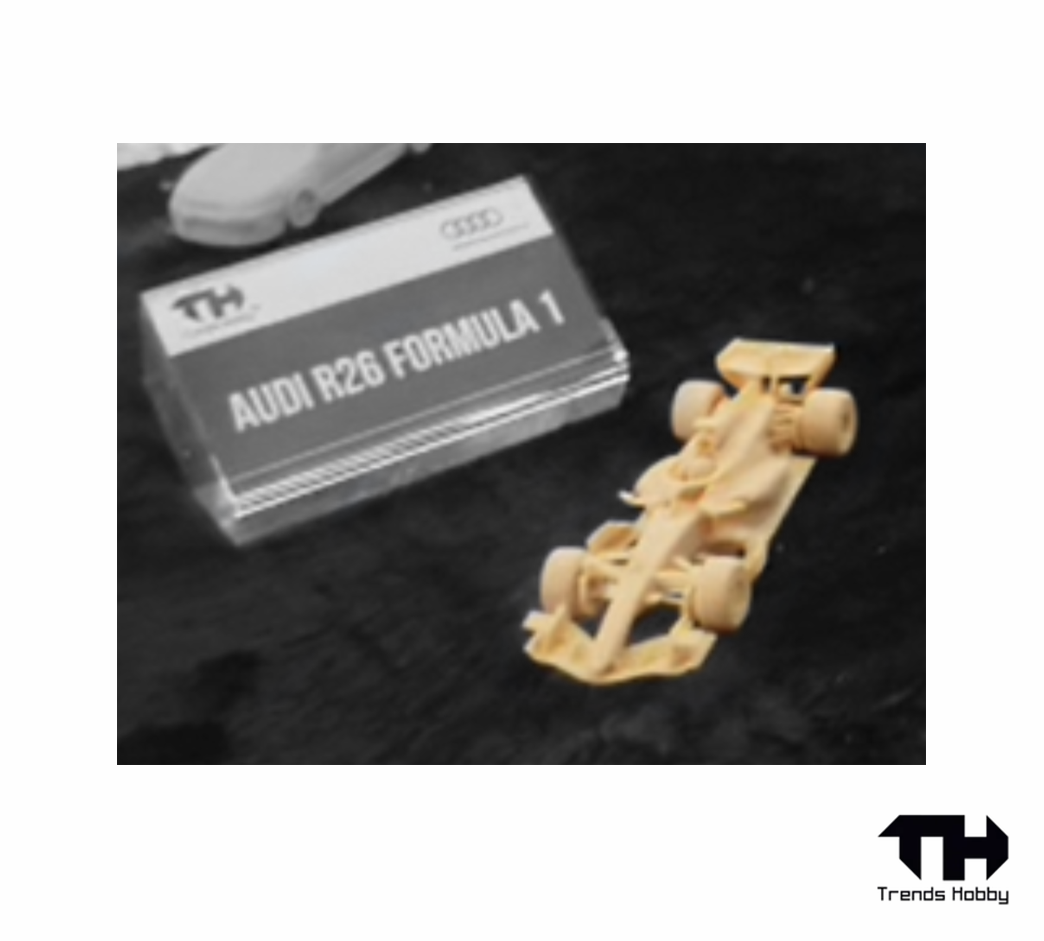
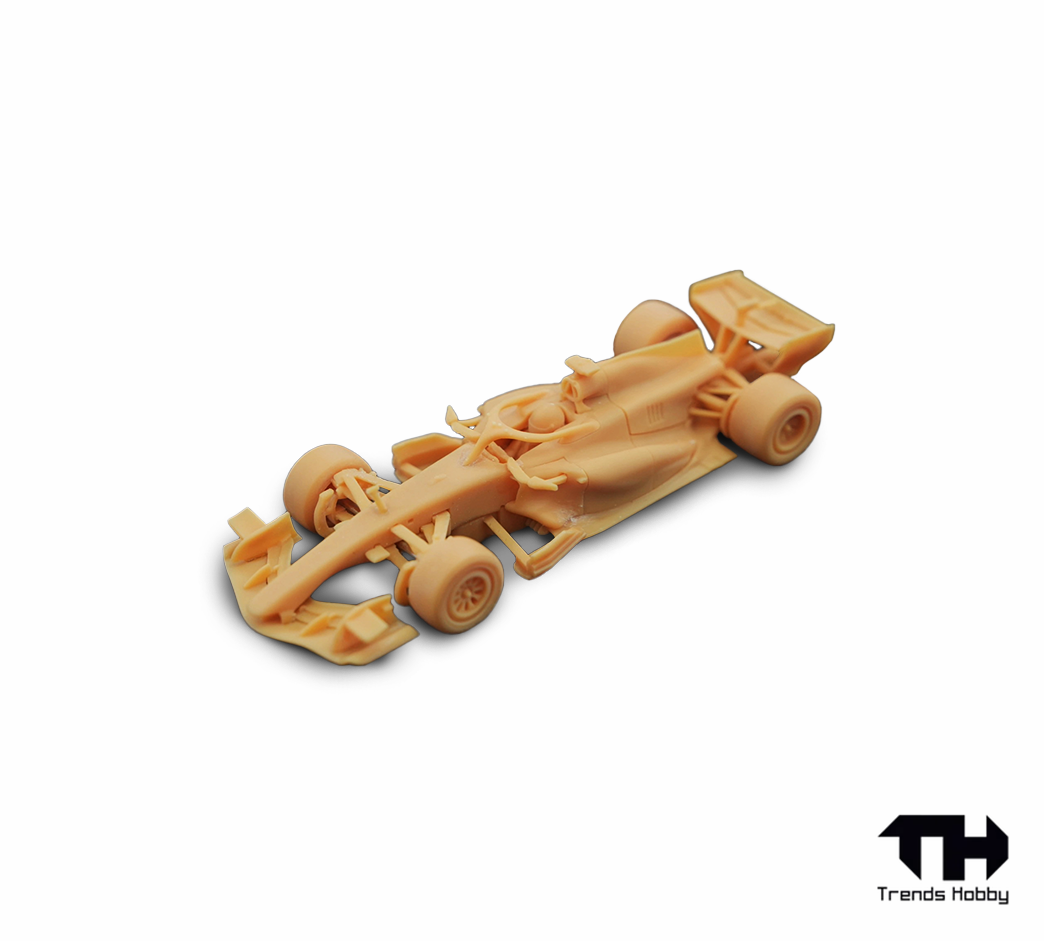
Update new tooling photos and models

diff --git a/index.html b/index.html
@@ -709,7 +709,7 @@ Quantity: 6000`;
     });
     return {models:models.sort((a,b)=>a.number-b.number),sets};
   }
-  const newToolings=[{"id":"tooling-audi-r8-lms-g3-evo-ii","newTooling":true,"status":"newtooling","name":"Audi R8 LMS GT3 EVO II","brand":"Audi","event":"Hong Kong ToyCar Salon 2026","eventDate":"August 2026","photo":"New Tooling/Audi-R8-LMS-G3-EVO-II.png"},{"id":"tooling-audi-rs6-avant","newTooling":true,"status":"newtooling","name":"Audi RS6 Avant","brand":"Audi","event":"Hong Kong ToyCar Salon 2026","eventDate":"August 2026","photo":"New Tooling/Audi-RS6-Avant.png"},{"id":"tooling-chevrolet-corvette-z06-gt3-r","newTooling":true,"status":"newtooling","name":"Chevrolet Corvette Z06 GT3 R","brand":"Chevrolet","event":"Hong Kong ToyCar Salon 2026","eventDate":"August 2026","photo":"New Tooling/Chevrolet-Corvette-Z06-GT3-R.png"},{"id":"tooling-ford-mustang-gt3","newTooling":true,"status":"newtooling","name":"Ford Mustang GT3","brand":"Ford","event":"Hong Kong ToyCar Salon 2026","eventDate":"August 2026","photo":"New Tooling/Ford-Mustang-GT3.png"},{"id":"tooling-lamborghini-countach-lp400","newTooling":true,"status":"newtooling","name":"Lamborghini Countach LP400","brand":"Lamborghini","event":"Hong Kong ToyCar Salon 2026","eventDate":"August 2026","photo":"New Tooling/Lamborghini-Countach-LP400.png"},{"id":"tooling-lamborghini-miura-p400","newTooling":true,"status":"newtooling","name":"Lamborghini Miura P400","brand":"Lamborghini","event":"Hong Kong ToyCar Salon 2026","eventDate":"August 2026","photo":"New Tooling/Lamborghini-Miura-P400.png"},{"id":"tooling-mclaren-720s-gt3-evo","newTooling":true,"status":"newtooling","name":"McLaren 720S GT3 EVO","brand":"McLaren","event":"Hong Kong ToyCar Salon 2026","eventDate":"August 2026","photo":"New Tooling/McLaren-720S-GT3-EVO.png"},{"id":"tooling-nissan-gtr-r32","newTooling":true,"status":"newtooling","name":"Nissan GT-R R32","brand":"Nissan","event":"Hong Kong ToyCar Salon 2026","eventDate":"August 2026","photo":"New Tooling/Nissan-GTR-R32.png"},{"id":"tooling-nissan-gtr-r35-nismo","newTooling":true,"status":"newtooling","name":"Nissan GT-R R35 Nismo","brand":"Nissan","event":"Hong Kong ToyCar Salon 2026","eventDate":"August 2026","photo":"New Tooling/Nissan-GTR-R35-Nismo.png"},{"id":"tooling-porsche-911-gt3-r-evo","newTooling":true,"status":"newtooling","name":"Porsche 911 GT3 R EVO","brand":"Porsche","event":"Hong Kong ToyCar Salon 2026","eventDate":"August 2026","photo":"New Tooling/Porsche-911-GT3-R-EVO.png"},{"id":"tooling-porsche-917k","newTooling":true,"status":"newtooling","name":"Porsche 917K","brand":"Porsche","event":"Hong Kong ToyCar Salon 2026","eventDate":"August 2026","photo":"New Tooling/Porsche-917K.png"},{"id":"tooling-porsche-956","newTooling":true,"status":"newtooling","name":"Porsche 956","brand":"Porsche","event":"Hong Kong ToyCar Salon 2026","eventDate":"August 2026","photo":"New Tooling/Porsche-956.png"},{"id":"tooling-toyota-gr86","newTooling":true,"status":"newtooling","name":"Toyota GR86","brand":"Toyota","event":"Hong Kong ToyCar Salon 2026","eventDate":"August 2026","photo":"New Tooling/Toyota-GR86.png"},{"name":"Audi R26 Formula 1","newTooling":true,"photo":"New Tooling/Audi-R26-Formula-1.png","status":"newtooling","brand":"Audi","id":"tooling-audi-r26-formula-1"},{"name":"Lamborghini Temerario GT3","newTooling":true,"photo":"New Tooling/Lamborghini-Temerario-GT3.png","status":"newtooling","brand":"Lamborghini","id":"tooling-lamborghini-temerario-gt3"}];
+  const newToolings=[{"name":"Audi R26 Formula 1","newTooling":true,"photo":"New Tooling/Audi-R26-Formula-1.png","status":"newtooling","brand":"Audi","id":"tooling-audi-r26-formula-1"},{"id":"tooling-audi-r8-lms-g3-evo-ii","newTooling":true,"status":"newtooling","name":"Audi R8 LMS GT3 EVO II","brand":"Audi","event":"Hong Kong ToyCar Salon 2026","eventDate":"August 2026","photo":"New Tooling/Audi-R8-LMS-G3-EVO-II.png"},{"id":"tooling-audi-rs6-avant","newTooling":true,"status":"newtooling","name":"Audi RS6 Avant","brand":"Audi","event":"Hong Kong ToyCar Salon 2026","eventDate":"August 2026","photo":"New Tooling/Audi-RS6-Avant.png"},{"id":"tooling-chevrolet-corvette-z06-gt3-r","newTooling":true,"status":"newtooling","name":"Chevrolet Corvette Z06 GT3 R","brand":"Chevrolet","event":"Hong Kong ToyCar Salon 2026","eventDate":"August 2026","photo":"New Tooling/Chevrolet-Corvette-Z06-GT3-R.png"},{"id":"tooling-ford-mustang-gt3","newTooling":true,"status":"newtooling","name":"Ford Mustang GT3","brand":"Ford","event":"Hong Kong ToyCar Salon 2026","eventDate":"August 2026","photo":"New Tooling/Ford-Mustang-GT3.png"},{"id":"tooling-lamborghini-countach-lp400","newTooling":true,"status":"newtooling","name":"Lamborghini Countach LP400","brand":"Lamborghini","event":"Hong Kong ToyCar Salon 2026","eventDate":"August 2026","photo":"New Tooling/Lamborghini-Countach-LP400.png"},{"id":"tooling-lamborghini-miura-p400","newTooling":true,"status":"newtooling","name":"Lamborghini Miura P400","brand":"Lamborghini","event":"Hong Kong ToyCar Salon 2026","eventDate":"August 2026","photo":"New Tooling/Lamborghini-Miura-P400.png"},{"name":"Lamborghini Temerario GT3","newTooling":true,"photo":"New Tooling/Lamborghini-Temerario-GT3.png","status":"newtooling","brand":"Lamborghini","id":"tooling-lamborghini-temerario-gt3"},{"id":"tooling-mclaren-720s-gt3-evo","newTooling":true,"status":"newtooling","name":"McLaren 720S GT3 EVO","brand":"McLaren","event":"Hong Kong ToyCar Salon 2026","eventDate":"August 2026","photo":"New Tooling/McLaren-720S-GT3-EVO.png"},{"id":"tooling-mclaren-f1-gtr","photo":"New Tooling/McLaren-F1-GTR.png","brand":"McLaren","name":"McLaren F1 GTR","status":"newtooling","newTooling":true},{"id":"tooling-nissan-gtr-r32","newTooling":true,"status":"newtooling","name":"Nissan GT-R R32","brand":"Nissan","event":"Hong Kong ToyCar Salon 2026","eventDate":"August 2026","photo":"New Tooling/Nissan-GTR-R32.png"},{"id":"tooling-nissan-gt-r-r33-400r","photo":"New Tooling/Nissan-GT-R-R33-400R.png","brand":"Nissan","name":"Nissan GT-R R33 400R","status":"newtooling","newTooling":true},{"id":"tooling-nissan-gtr-r35-nismo","newTooling":true,"status":"newtooling","name":"Nissan GT-R R35 Nismo","brand":"Nissan","event":"Hong Kong ToyCar Salon 2026","eventDate":"August 2026","photo":"New Tooling/Nissan-GTR-R35-Nismo.png"},{"id":"tooling-porsche-911-gt3-r-evo","newTooling":true,"status":"newtooling","name":"Porsche 911 GT3 R EVO","brand":"Porsche","event":"Hong Kong ToyCar Salon 2026","eventDate":"August 2026","photo":"New Tooling/Porsche-911-GT3-R-EVO.png"},{"id":"tooling-porsche-917k","newTooling":true,"status":"newtooling","name":"Porsche 917K","brand":"Porsche","event":"Hong Kong ToyCar Salon 2026","eventDate":"August 2026","photo":"New Tooling/Porsche-917K.png"},{"id":"tooling-porsche-956","newTooling":true,"status":"newtooling","name":"Porsche 956","brand":"Porsche","event":"Hong Kong ToyCar Salon 2026","eventDate":"August 2026","photo":"New Tooling/Porsche-956.png"},{"id":"tooling-toyota-gr86","newTooling":true,"status":"newtooling","name":"Toyota GR86","brand":"Toyota","event":"Hong Kong ToyCar Salon 2026","eventDate":"August 2026","photo":"New Tooling/Toyota-GR86.png"},{"id":"tooling-xpeng-p7","photo":"New Tooling/XPeng-P7.png","brand":"XPeng","name":"XPeng P7","status":"newtooling","newTooling":true}];
   const titleUpdates={"119": ["Porsche 911 GT3 R", "Manthey 1st Phorm LeMans 24H LMGT3 Winner 2025 #92"], "124": ["Lamborghini Huracan GT3 EVO2", "Absolute Racing China GT 2026 #63"], "113": ["Porsche 918 Spyder", "Acid Green"], "114": ["Porsche 918 Spyder", "Black"], "88": ["Toyota Land Cruiser 250", "Trail Dust Sand"], "89": ["Toyota Land Cruiser 250", "Heritage Blue"], "95": ["Porsche 911 GT1", "Mobil 1 Le Mans 1998 #26"], "90": ["Porsche 911 GT1", "Porsche AG 1998 Test Car"], "91": ["Porsche 911 GT3 R", "Presentation Car"], "92": ["Porsche 911 GT3 R", "Manthey Racing DTM 2024 #90"], "93": ["Porsche 911 GT3 R", "Manthey Racing DTM 2024 #91"], "94": ["Porsche Cayenne Turbo GT", "Algarve Blue Metallic"], "96": ["McLaren Senna GTR", "Polaris Blue #33"], "97": ["McLaren Senna GTR", "Iridescent Chameleon Purple"], "98": ["Porsche Cayenne Turbo GT", "Arctic Grey"], "99": ["Porsche Cayenne Turbo GT", "Shark Blue"], "101": ["Porsche Cayenne Turbo GT", "Lava Orange"], "102": ["Porsche Cayenne Turbo GT", "Quartzite Grey Metallic"], "103": ["Porsche Cayenne Turbo GT", "Viper Green"], "104": ["Porsche Taycan Turbo GT", "Purple Sky Metallic"], "105": ["Porsche Taycan Turbo GT", "Pale Blue Metallic"], "106": ["Porsche Taycan Turbo GT", "Oak Green Metallic"], "107": ["Lamborghini Huracan GT3 EVO2", "SSR Performance DTM 2023 #92"], "108": ["Lamborghini Huracan GT3 EVO2", "SSR Performance DTM 2023 #94"], "109": ["Lamborghini Huracan GT3 EVO2", "SSR Performance DTM 2023 #6"], "110": ["Porsche 911 GT3 R", "Manthey Racing DTM 2025 #92"], "111": ["Porsche 911 GT3 R", "Manthey Racing DTM 2025 #90"], "112": ["Porsche 911 GT3 R", "Manthey Racing DTM 2025 #91"], "115": ["Porsche 918 Spyder", "Salzburg Racing #05 Matte Black / White"], "116": ["Porsche 918 Spyder", "Salzburg Racing #25 White / Gloss Black"], "142": ["Porsche 918 Spyder", "Salzburg Racing #25 Matte Black / Guards Red"], "117": ["Porsche 911 GT3 R", "Absolute Racing Bathurst 12 Hour 2026 #911"], "118": ["McLaren Senna GTR", "Coke"], "120": ["Porsche 911 GT3 R", "Chip Hart Racing LeMans 24H LMGT3 2025 #90"], "121": ["Lamborghini Temerario", "Basquiat Chrome Gold"], "122": ["Lamborghini Temerario", "Basquiat Chrome Gunmetal"], "123": ["Porsche 911 GT3 R", "Iron Dames LeMans 24H LMGT3 2025 #85"], "125": ["Lamborghini Temerario", "Blu Marinus Matt"], "126": ["Lamborghini Temerario", "Verde Mercurius"], "127": ["Lamborghini Huracan GT3 EVO2", "GRT DTM 2025 #19"], "128": ["Lamborghini Huracan GT3 EVO2", "GRT DTM 2025 #63"], "129": ["Porsche 911 GT3 R", "EMA Motorsport LeMans 24H LMGT3 Winner 2024 #91"], "132": ["Lamborghini Temerario", "Keith Haring"], "138": ["Lamborghini Huracan GT3 EVO2", "GRT DTM 2024 #19"], "140": ["Lamborghini Urus Performante", "Basquiat Matte White"], "141": ["Lamborghini Urus Performante", "Basquiat Matte Black"], "143": ["Lamborghini Huracan GT3 EVO2", "Absolute Racing GTWCA Malaysia 2026 #29"], "144": ["Porsche 911 GT1 1998", "Arctic Silver Metallic"], "145": ["Porsche 911 GT1 1998", "Guards Red"], "146": ["Lamborghini Temerario", "Tokidoki #26"], "147": ["Lamborghini Urus Performante", "Tokidoki #20"], "149": ["Lamborghini Huracan GT3 EVO2", "Absolute Racing China GT 2026 #63"], "159": ["Lamborghini Huracan GT3 EVO2", "GRT DTM 2023 #19"], "160": ["Lamborghini Huracan GT3 EVO2", "Absolute Racing GTWCA Indonesia 2026 #29"], "163": ["Bugatti Tourbillon", "Atlantic Blue"], "164": ["Bugatti Tourbillon", "Dove Beige Metallic / Black"], "130": ["Porsche 911 GT3 R", "Pure Rxcing LeMans 24H LMGT3 2024 #92"], "80": ["McLaren Senna GTR", "Burton Blue #12"], "81": ["McLaren Senna GTR", "Electroplating Red #36"], "86": ["McLaren Senna GTR", "Vermillion Red"], "87": ["McLaren Senna GTR", "Papaya Spark #12"], "79": ["Toyota Land Cruiser 250", "Red"]};
   const prototypes=[{"id":"prototype-chevrolet-corvette-z06-gt3-r-jmr-suzuka-1000km-2026-99","prototype":true,"status":"prototype","name":"Chevrolet Corvette Z06 GT3 R JMR Suzuka 1000KM 2026 #99","titleLines":["Chevrolet Corvette Z06 GT3 R","JMR Suzuka 1000KM 2026 #99"],"brand":"Chevrolet","photo":"Prototypes/Chevrolet-Corvette-Z06-GT3-R-JMR-Suzuka-1000KM-2026-#99.png","driver":"HH Prince Jefri Ibrahim, HH Prince Abu Bakar Ibrahim, Konsta Lappalainen"},{"id":"prototype-mclaren-senna-gtr-cerulean-blue","prototype":true,"status":"prototype","name":"McLaren Senna GTR Cerulean Blue","titleLines":["McLaren Senna GTR","Cerulean Blue"],"brand":"McLaren","photo":"Prototypes/McLaren-Senna-GTR-Cerulean-Blue.png"},{"id":"prototype-mclaren-senna-gtr-electroplating-orange-12","prototype":true,"status":"prototype","name":"McLaren Senna GTR Electroplating Orange #12","titleLines":["McLaren Senna GTR","Electroplating Orange #12"],"brand":"McLaren","photo":"Prototypes/McLaren-Senna-GTR-Electroplating-Orange-#12.png"},{"id":"prototype-mclaren-senna-gtr-onyx-black","prototype":true,"status":"prototype","name":"McLaren Senna GTR Onyx Black","titleLines":["McLaren Senna GTR","Onyx Black"],"brand":"McLaren","photo":"Prototypes/McLaren-Senna-GTR-Onyx-Black.png"},{"id":"prototype-mclaren-senna-gtr-silica-white","prototype":true,"status":"prototype","name":"McLaren Senna GTR Silica White","titleLines":["McLaren Senna GTR","Silica White"],"brand":"McLaren","photo":"Prototypes/McLaren-Senna-GTR-Silica-White.png"},{"id":"prototype-mclaren-senna-gtr-volcano-orange","prototype":true,"status":"prototype","name":"McLaren Senna GTR Volcano Orange","titleLines":["McLaren Senna GTR","Volcano Orange"],"brand":"McLaren","photo":"Prototypes/McLaren-Senna-GTR-Volcano-Orange.png"},{"id":"prototype-nissan-gtr-r34-z-tune-black","prototype":true,"status":"prototype","name":"Nissan GT-R R34 Z-Tune Black","titleLines":["Nissan GT-R R34 Z-Tune","Black"],"brand":"Nissan","photo":"Prototypes/Nissan-GTR-R34-Z-Tune-Black.png"},{"id":"prototype-nissan-gtr-r34-z-tune-silver","prototype":true,"status":"prototype","name":"Nissan GT-R R34 Z-Tune Silver","titleLines":["Nissan GT-R R34 Z-Tune","Silver"],"brand":"Nissan","photo":"Prototypes/Nissan-GTR-R34-Z-Tune-Silver.png"},{"id":"prototype-porsche-911-gt3-r-evo-hzo-fortis-racing-gtwca-japan-2026-20","prototype":true,"status":"prototype","name":"Porsche 911 GT3 R EVO HZO Fortis Racing GTWCA Japan 2026 #20","titleLines":["Porsche 911 GT3 R EVO","HZO Fortis Racing GTWCA Japan 2026 #20"],"brand":"Porsche","photo":"Prototypes/Porsche-911-GT3-R-EVO-HZO-Fortis-Racing-GTWCA-Japan-2026-#20.png","driver":"Aaron Lim Say Joon, Haziq Zairel Oh"},{"id":"prototype-porsche-911-gt3-r-evo-hzo-fortis-racing-2026-shanghai-8hrs-20","prototype":true,"status":"prototype","name":"Porsche 911 GT3 R EVO HZO Fortis Racing 2026 Shanghai 8Hrs #20","titleLines":["Porsche 911 GT3 R EVO","HZO Fortis Racing 2026 Shanghai 8Hrs #20"],"brand":"Porsche","photo":"Prototypes/Porsche-911-GT3-R-EVO HZO-Fortis-Racing-2026-Shanghai-8Hrs-#20.png","driver":"Aaron Lim Say Joon, Haziq Zairel Oh, Huang Ruohan"},{"id":"prototype-porsche-911-gt3-r-kus-team-bernhard-dtm-2023-24","prototype":true,"status":"prototype","name":"Porsche 911 GT3 R KÜS Team Bernhard DTM 2023 #24","titleLines":["Porsche 911 GT3 R","KÜS Team Bernhard DTM 2023 #24"],"brand":"Porsche","photo":"Prototypes/Porsche-911-GT3-R-KÜS-Team-Bernhard-DTM-2023-#24.png","driver":"Ayhancan Güven"},{"id":"prototype-porsche-911-gt3-r-kus-team-bernhard-dtm-2023-75","prototype":true,"status":"prototype","name":"Porsche 911 GT3 R KÜS Team Bernhard DTM 2023 #75","titleLines":["Porsche 911 GT3 R","KÜS Team Bernhard DTM 2023 #75"],"brand":"Porsche","photo":"Prototypes/Porsche-911-GT3-R-KÜS-Team-Bernhard-DTM-2023-#75.png","driver":"Laurin Heinrich"},{"id":"prototype-porsche-918-spyder-liquid-metal-silver","prototype":true,"status":"prototype","name":"Porsche 918 Spyder Liquid Metal Silver","titleLines":["Porsche 918 Spyder","Liquid Metal Silver"],"brand":"Porsche","photo":"Prototypes/Porsche-918-Spyder-Liquid-Metal-Silver.png"},{"id":"prototype-porsche-taycan-turbo-gt-viper-green","prototype":true,"status":"prototype","name":"Porsche Taycan Turbo GT Viper Green","titleLines":["Porsche Taycan Turbo GT","Viper Green"],"brand":"Porsche","photo":"Prototypes/Porsche-Taycan-Turbo-GT-Viper-Green.png"},{"id":"prototype-toyota-land-cruiser-250-midnight-black-matte","prototype":true,"status":"prototype","name":"Toyota Land Cruiser 250 Midnight Black Matte","titleLines":["Toyota Land Cruiser 250","Midnight Black Matte"],"brand":"Toyota","photo":"Prototypes/Toyota-Land-Cruiser-250-Midnight-Black-Matte.png"},{"id":"prototype-toyota-land-cruiser-250-midnight-black-metallic","prototype":true,"status":"prototype","name":"Toyota Land Cruiser 250 Midnight Black Metallic","titleLines":["Toyota Land Cruiser 250","Midnight Black Metallic"],"brand":"Toyota","photo":"Prototypes/Toyota-Land-Cruiser-250-Midnight-Black-Metallic.png"},{"id":"prototype-toyota-land-cruiser-250-super-white-ii","prototype":true,"status":"prototype","name":"Toyota Land Cruiser 250 Super White II","titleLines":["Toyota Land Cruiser 250","Super White II"],"brand":"Toyota","photo":"Prototypes/Toyota-Land-Cruiser-250-Super-White-II.png"},{"id":"prototype-porsche-911-gt3-r-evo-hzo-fortis-racing-gtwca-beijing-2026-20","prototype":true,"status":"prototype","name":"Porsche 911 GT3 R EVO HZO Fortis Racing GTWCA Beijing 2026 #20","titleLines":["Porsche 911 GT3 R EVO","HZO Fortis Racing GTWCA Beijing 2026 #20"],"brand":"Porsche","photo":"Prototypes/Porsche-911-GT3-R-EVOHZO-Fortis-Racing-GTWCA-Beijing-2026-#20.png","driver":"Haziq Zairel Oh, Aaron Lim","regularRelease":true,"packaging":"Box Packaging"},{"id":"prototype-lamborghini-huracan-gt3-evo2-absolute-racing-gtwca-beijing-2026-29","prototype":true,"status":"prototype","name":"Lamborghini Huracan GT3 EVO2 Absolute Racing GTWCA Beijing 2026 #29","titleLines":["Lamborghini Huracan GT3 EVO2","Absolute Racing GTWCA Beijing 2026 #29"],"brand":"Lamborghini","photo":"Prototypes/Lamborghini Huracan GT3 EVO2 Absolute Racing GTWCA Beijing 2026 #29.png"},{"id":"prototype-porsche-911-gt3-r-evo-mccann-racing-gtwca-america-2026-8","prototype":true,"status":"prototype","name":"Porsche 911 GT3 R EVO McCann Racing GTWCA America 2026 #8","titleLines":["Porsche 911 GT3 R EVO","McCann Racing GTWCA America 2026 #8"],"brand":"Porsche","photo":"Prototypes/Porsche-911-GT3-R-EVO-McCann-Racing-GTWCA-America-2026-#8.png","driver":"Michael McCann Jr., Zachary Vanier"},{"name":"Audi RS6 Avant Brewster Green","titleLines":["Audi RS6 Avant","Brewster Green"],"prototype":true,"status":"prototype","photo":"Prototypes/Audi-RS6-Avant-Brewster-Green.png","brand":"Audi","id":"prototype-audi-rs6-avant-brewster-green"},{"name":"Audi RS6 Avant Camouflage Green Metallic","titleLines":["Audi RS6 Avant","Camouflage Green Metallic"],"prototype":true,"status":"prototype","photo":"Prototypes/Audi-RS6-Avant-Camouflage-Green-Metallic.png","brand":"Audi","id":"prototype-audi-rs6-avant-camouflage-green-metallic"},{"name":"Porsche 911 GT1 1998 Street Version Firn White","titleLines":["Porsche 911 GT1 1998 Street Version","Firn White"],"prototype":true,"status":"prototype","photo":"Prototypes/Porsche-911-GT1-1998-Street-Version-Firn-White.png","brand":"Porsche","id":"prototype-porsche-911-gt1-1998-street-version-firn-white"},{"name":"Porsche 918 Spyder Salzburg Racing #3 White / Guards Red","titleLines":["Porsche 918 Spyder","Salzburg Racing #3 White / Guards Red"],"prototype":true,"status":"prototype","photo":"Prototypes/Porsche-918-Spyder-Salzburg-Racing-#3-White--Guards-Red.png","brand":"Porsche","id":"prototype-porsche-918-spyder-salzburg-racing-3-white-guards-red"}];
   const updatedPhotos={"79": "Catalog Pictures/079/Main Picture/079-Main-Picture.png", "80": "Catalog Pictures/080/Main Picture/080-Main-Picture.png", "81": "Catalog Pictures/081/Main Picture/081-Main-Picture.png", "86": "Catalog Pictures/086/Main Picture/086-Main-Picture.png", "87": "Catalog Pictures/087/Main Picture/087-Main-Picture.png", "88": "Catalog Pictures/088/Main Picture/088-Main-Picture.png", "89": "Catalog Pictures/089/Main Picture/089-Main-Picture.png", "90": "Catalog Pictures/090/Main Picture/090-Main-Picture.png", "91": "Catalog Pictures/091/Main Picture/091-Main-Picture.png", "92": "Catalog Pictures/092/Main Picture/092-Main-Picture.png", "93": "Catalog Pictures/093/Main Picture/093-Main-Picture.png", "94": "Catalog Pictures/094/Main Picture/094-Main-Picture.png", "95": "Catalog Pictures/095/Main Picture/095-Main-Picture.png", "96": "Catalog Pictures/096/Main Picture/096-Main-Picture.png", "97": "Catalog Pictures/097/Main Picture/097-Main-Picture.png", "98": "Catalog Pictures/098/Main Picture/098-Main-Picture.png", "99": "Catalog Pictures/099/Main Picture/099-Main-Picture.png", "101": "Catalog Pictures/101/Main Picture/101-Main-Picture.png", "102": "Catalog Pictures/102/Main Picture/102-Main-Picture.png", "103": "Catalog Pictures/103/Main Picture/103-Main-Picture.png", "104": "Catalog Pictures/104/Main Picture/104-Main-Picture.png", "105": "Catalog Pictures/105/Main Picture/105-Main-Picture.png", "106": "Catalog Pictures/106/Main Picture/106-Main-Picture.png", "107": "Catalog Pictures/107/Main Picture/107-Main-Picture.png", "108": "Catalog Pictures/108/Main Picture/108-Main-Picture.png", "109": "Catalog Pictures/109/Main Picture/109-Main-Picture.png", "110": "Catalog Pictures/110/Main Picture/110-Main-Picture.png", "111": "Catalog Pictures/111/Main Picture/111-Main-Picture.png", "112": "Catalog Pictures/112/Main Picture/112-Main-Picture.png", "113": "Catalog Pictures/113/Main Picture/113-Main-Picture.png", "114": "Catalog Pictures/114/Main Picture/114-Main-Picture.png", "117": "Catalog Pictures/117/Main Picture/117-Main-Picture.png", "118": "Catalog Pictures/118/Main Picture/118-Main-Picture.png", "119": "Catalog Pictures/119/Main Picture/119-Main-Picture.png", "120": "Catalog Pictures/120/Main Picture/120-Main-Picture.png", "123": "Catalog Pictures/123/Main Picture/123-Main-Picture.png", "124": "Catalog Pictures/124/Main Picture/124-Main-Picture.png", "125": "Catalog Pictures/125/Main Picture/125-Main-Picture.png", "126": "Catalog Pictures/126/Main Picture/126-Main-Picture.png", "127": "Catalog Pictures/127/Main Picture/127-Main-Picture.png", "128": "Catalog Pictures/128/Main Picture/128-Main-Picture.png", "129": "Catalog Pictures/129/Main Picture/129-Main-Picture.png", "130": "Catalog Pictures/130/Main Picture/130-Main-Picture.png", "132": "Catalog Pictures/132/Main Picture/132-Main-Picture.png", "138": "Catalog Pictures/138/Main Picture/138-Main-Picture.png", "140": "Catalog Pictures/140/Main Picture/140-Main-Picture.png", "141": "Catalog Pictures/141/Main Picture/141-Main-Picture.png", "142": "Catalog Pictures/142/Main Picture/142-Main-Picture.png", "143": "Catalog Pictures/143/Main Picture/143-Main-Picture.png", "144": "Catalog Pictures/144/Main Picture/144-Main-Picture.png", "145": "Catalog Pictures/145/Main Picture/145-Main-Picture.png", "146": "Catalog Pictures/146/Main Picture/146-Main-Picture.png", "147": "Catalog Pictures/147/Main Picture/147-Main-Picture.png", "149": "Catalog Pictures/149/Main Picture/149-Main-Picture.png", "159": "Catalog Pictures/159/Main Picture/159-Main-Picture.png", "160": "Catalog Pictures/160/Main Picture/160-Main-Picture.png", "163": "Catalog Pictures/163/Main Picture/163-Main-Picture.png", "164": "Catalog Pictures/164/Main Picture/164-Main-Picture.png", "115": "Catalog Pictures/115/Main Picture/115-Main-Picture.png", "116": "Catalog Pictures/116/Main Picture/116-Main-Picture.png", "121": "Catalog Pictures/121/Main Picture/121-Main-Picture.png", "122": "Catalog Pictures/122/Main Picture/122-Main-Picture.png", "151": "Catalog Pictures/151/Main Picture/151-Main-Picture.png", "152": "Catalog Pictures/152/Main Picture/152-Main-Picture.png"};
@@ -799,7 +799,7 @@ Quantity: 6000`;
     const grouped=type==='all'||list.some(m=>m.prototype||m.newTooling||m.status==='cancelled'),grid=$('#modelGrid');grid.classList.toggle('catalog-groups',grouped);if(grouped){const prototypePage=status==='prototype';const groups=[['sets','Special sets',list.filter(m=>m.set)],['models','Models',list.filter(m=>!m.set&&!m.prototype&&!m.newTooling&&m.status!=='cancelled')],['prototypes','Prototypes',list.filter(m=>m.prototype&&m.status!=='cancelled'&&(prototypePage||!m.prototypeCopy))],['newtoolings','New Tooling',list.filter(m=>m.newTooling)],['cancelled','Cancelled',list.filter(m=>m.status==='cancelled')]].filter(([, ,items])=>items.length);grid.innerHTML=groups.map(([key,title,items])=>renderGroup(key,title,items)).join('')}else grid.innerHTML=list.map(card).join('');$('#emptyState').style.display=list.length?'none':'block';syncSideNavigation();syncHomeHero()
   }
   const brandLogo={Audi:'audi.svg',Nissan:'nissan.png',Chevrolet:'chevrolet-emblem.svg',Bugatti:'bugatti.png',Ford:'ford.png',Lamborghini:'lamborghini.png',McLaren:'mclaren-user.png',Porsche:'porsche-emblem.svg',Toyota:'toyota.svg'};
-  function setupStats(){const items=[...models,...sets],countedItems=items.filter(m=>!isUncountedPlaceholder(m)),owned=countedItems.filter(m=>m.status==='owned'),ordered=countedItems.filter(m=>m.status==='ordered'),wishlist=countedItems.filter(m=>m.status==='wishlist'),preorder=countedItems.filter(m=>m.status==='preorder'),unavailable=countedItems.filter(m=>m.status==='unavailable'),prototype=countedItems.filter(m=>m.status==='prototype'&&!m.prototypeCopy),brands=[...new Set(countedItems.map(m=>m.brand).filter(Boolean))].sort();$('#summaryTotal').textContent=countedItems.length;$('#heroTotal').textContent=countedItems.filter(m=>!m.prototypeCopy).length;$('#summaryOwned').textContent=owned.length;const statusSelect=$('#status'),ownedNav=document.querySelector('[data-nav-status="owned"]');let orderedNav=document.querySelector('[data-nav-status="ordered"]'),orderedOption=statusSelect.querySelector('option[value="ordered"]');if(ordered.length){if(!orderedNav){orderedNav=document.createElement('a');orderedNav.className='side-item side-status';orderedNav.href='#collection?status=ordered';orderedNav.dataset.navStatus='ordered';orderedNav.innerHTML='<span class="status-dot ordered"></span>Ordered <span class="nav-count" id="summaryOrdered">0</span>';ownedNav.after(orderedNav)}$('#summaryOrdered').textContent=ordered.length;if(!orderedOption){orderedOption=document.createElement('option');orderedOption.value='ordered';orderedOption.textContent='Ordered';statusSelect.insertBefore(orderedOption,statusSelect.querySelector('option[value="preorder"]'))}}else{orderedNav?.remove();orderedOption?.remove()}$('#summaryWishlist').textContent=wishlist.length;$('#summaryPreorder').textContent=preorder.length;$('#summaryUnavailable').textContent=unavailable.length;$('#summaryPrototype').textContent=prototype.length;$('#summaryNewTooling').textContent=countedItems.filter(m=>m.newTooling).length;$('#summaryCancelled').textContent=countedItems.filter(m=>m.status==='cancelled').length;const ticker=brands.map(b=>`<span class="ticker-brand"><img src="Assets/${esc(brandLogo[b])}" alt="">${esc(b.toUpperCase())}</span><i>•</i>`).join('');$('.brand-ticker').innerHTML=Array.from({length:3},()=>`<div>${ticker}</div>`).join('');const brandSelect=$('#brand');brands.forEach(b=>brandSelect.insertAdjacentHTML('beforeend',`<option value="${esc(b)}">${esc(b)}</option>`));$('#brandNav').innerHTML=brands.map(b=>`<a class="side-item brand-item" href="${collectionHref({brand:b})}" data-nav-brand="${esc(b)}"><img class="brand-mark" src="Assets/${esc(brandLogo[b])}" alt="" aria-hidden="true">${esc(b)}<span class="nav-count">${countedItems.filter(m=>m.brand===b&&!m.prototypeCopy).length}</span></a>`).join('')}
+  function setupStats(){const items=[...models,...sets],countedItems=items.filter(m=>!isUncountedPlaceholder(m)),owned=countedItems.filter(m=>m.status==='owned'),ordered=countedItems.filter(m=>m.status==='ordered'),wishlist=countedItems.filter(m=>m.status==='wishlist'),preorder=countedItems.filter(m=>m.status==='preorder'),unavailable=countedItems.filter(m=>m.status==='unavailable'),prototype=countedItems.filter(m=>m.status==='prototype'&&!m.prototypeCopy),brands=[...new Set(countedItems.map(m=>m.brand).filter(Boolean))].sort();$('#summaryTotal').textContent=countedItems.length;$('#heroTotal').textContent=countedItems.filter(m=>!m.prototypeCopy).length;$('#summaryOwned').textContent=owned.length;const statusSelect=$('#status'),ownedNav=document.querySelector('[data-nav-status="owned"]');let orderedNav=document.querySelector('[data-nav-status="ordered"]'),orderedOption=statusSelect.querySelector('option[value="ordered"]');if(ordered.length){if(!orderedNav){orderedNav=document.createElement('a');orderedNav.className='side-item side-status';orderedNav.href='#collection?status=ordered';orderedNav.dataset.navStatus='ordered';orderedNav.innerHTML='<span class="status-dot ordered"></span>Ordered <span class="nav-count" id="summaryOrdered">0</span>';ownedNav.after(orderedNav)}$('#summaryOrdered').textContent=ordered.length;if(!orderedOption){orderedOption=document.createElement('option');orderedOption.value='ordered';orderedOption.textContent='Ordered';statusSelect.insertBefore(orderedOption,statusSelect.querySelector('option[value="preorder"]'))}}else{orderedNav?.remove();orderedOption?.remove()}$('#summaryWishlist').textContent=wishlist.length;$('#summaryPreorder').textContent=preorder.length;$('#summaryUnavailable').textContent=unavailable.length;$('#summaryPrototype').textContent=prototype.length;$('#summaryNewTooling').textContent=countedItems.filter(m=>m.newTooling).length;$('#summaryCancelled').textContent=countedItems.filter(m=>m.status==='cancelled').length;const ticker=brands.map(b=>`<span class="ticker-brand">${brandLogo[b]?`<img src="Assets/${esc(brandLogo[b])}" alt="">`:''}${esc(b.toUpperCase())}</span><i>•</i>`).join('');$('.brand-ticker').innerHTML=Array.from({length:3},()=>`<div>${ticker}</div>`).join('');const brandSelect=$('#brand');brands.forEach(b=>brandSelect.insertAdjacentHTML('beforeend',`<option value="${esc(b)}">${esc(b)}</option>`));$('#brandNav').innerHTML=brands.map(b=>`<a class="side-item brand-item" href="${collectionHref({brand:b})}" data-nav-brand="${esc(b)}">${brandLogo[b]?`<img class="brand-mark" src="Assets/${esc(brandLogo[b])}" alt="" aria-hidden="true">`:''}${esc(b)}<span class="nav-count">${countedItems.filter(m=>m.brand===b&&!m.prototypeCopy).length}</span></a>`).join('')}
   function detailRows(item){
     const unknown=unknownInfo(item),released=item.release&&item.release!=='Pre-Order';
     const rows=[unknown||item.status==='cancelled'?null:['releaseType','Release Type',releaseTypeFor(item),'important'],['brand','Manufacturer',item.brand||'Not Announced'],unknown?null:['calendar','Pre-Order Starting Date',item.preorderStarted],unknown?null:['calendar','Release',released&&item.release],['color','Colour',item.color],['event','Event',item.event],['calendar','Event Date',item.eventDate],unknown?null:['quantity','Quantity',item.quantity],['driver','Driver',item.driver],unknown||item.status==='cancelled'?null:['packaging','Packaging',item.packaging||'Box Packaging','important']];
